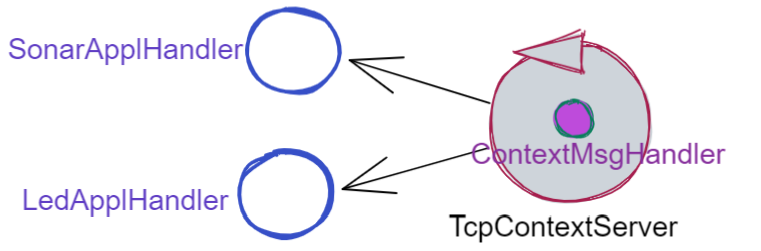
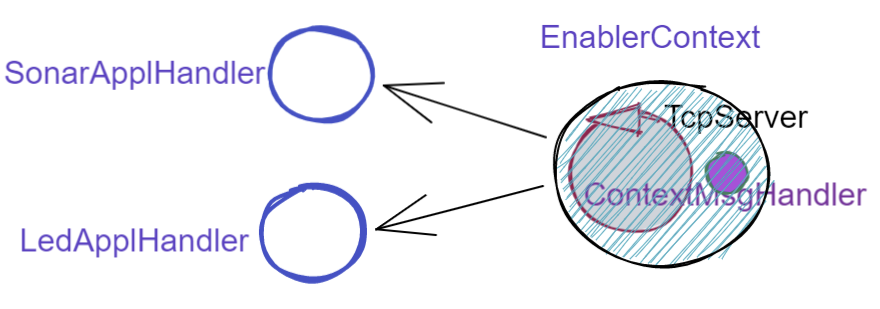
sprint4

Changed region(s): [[0.0, 0.0279, 0.9974, 0.9761]]

diff --git a/it.unibo.radarSystem22_4/src/it/unibo/radarSystem22_4/appl/counter/SharedCounterExampleMain.java b/it.unibo.radarSystem22_4/src/it/unibo/radarSystem22_4/appl/counter/SharedCounterExampleMain.java
@@ -3,8 +3,11 @@ package it.unibo.radarSystem22_4.appl.counter;
 import it.unibo.radarSystem22_4.appl.RadarSystemConfig;
 import it.unibo.radarSystem22_4.comm.ApplMessage;
 import it.unibo.radarSystem22_4.comm.ProtocolType;
+import it.unibo.radarSystem22_4.comm.context.ContextMsgHandler;
 import it.unibo.radarSystem22_4.comm.context.TcpContextServer;
+import it.unibo.radarSystem22_4.comm.enablers.EnablerContext;
 import it.unibo.radarSystem22_4.comm.interfaces.IApplMessage;
+import it.unibo.radarSystem22_4.comm.interfaces.IContext;
 import it.unibo.radarSystem22_4.comm.proxy.ProxyAsClient;
 import it.unibo.radarSystem22_4.comm.utils.BasicUtils;
 
@@ -18,24 +21,27 @@ import it.unibo.radarSystem22_4.comm.utils.BasicUtils;
 public class SharedCounterExampleMain  {
 private int ctxServerPort   = 7070;
 private String delay        = "100"; //con delay = 0 funziona
-
+private ProtocolType protocol;
 IApplMessage msgDec = new ApplMessage(
 	      "msg( dec, dispatch, main, counter, dec(DELAY), 1 )"
 	      .replace("DELAY", delay));
  
 	public void configure(  ) {
  		BasicUtils.aboutThreads("Before configure - ");
+ 		protocol = ProtocolType.tcp;
 		CounterWithDelay counter         = new CounterWithDelay("counter");
- 		TcpContextServer contextServer   = new TcpContextServer("TcpContextServer",  ctxServerPort );
-		CounterApplHandler counterH      = new CounterApplHandler("counterH", counter);
-		contextServer.addComponent(counter.getName(),counterH);	
+ 		CounterApplHandler counterH      = new CounterApplHandler("counterH", counter);
+// 		TcpContextServer contextServer   = new TcpContextServer("TcpContextServer",  ctxServerPort );
+		IContext  contextServer = new EnablerContext("ctx",""+ctxServerPort,protocol,
+	                 new ContextMsgHandler("ctxH"));		
+ 		contextServer.addComponent(counter.getName(),counterH);	
  		contextServer.activate();    
  		BasicUtils.aboutThreads("After configure - ");
  	}
 	
 	public void execute() throws Exception {
-		ProxyAsClient client1 = new ProxyAsClient("client1","localhost", ""+ctxServerPort, ProtocolType.tcp);
- 		ProxyAsClient client2 = new ProxyAsClient("client2","localhost", ""+ctxServerPort, ProtocolType.tcp);
+		ProxyAsClient client1 = new ProxyAsClient("client1","localhost", ""+ctxServerPort, protocol);
+ 		ProxyAsClient client2 = new ProxyAsClient("client2","localhost", ""+ctxServerPort, protocol);
  		client1.sendCommandOnConnection(msgDec.toString());  
  		client2.sendCommandOnConnection(msgDec.toString());		
  		BasicUtils.aboutThreads("After client send - ");
@@ -43,10 +49,7 @@ IApplMessage msgDec = new ApplMessage(
  
  
 	public static void main( String[] args) throws Exception {	
-		SharedCounterExampleMain sys = new SharedCounterExampleMain();
-//		RadarSystemConfig.withContext = true;
-		RadarSystemConfig.tracing     = false;
-		
+		SharedCounterExampleMain sys = new SharedCounterExampleMain();		
 		sys.configure();
 		sys.execute();
  		Thread.sleep(2500);

diff --git a/it.unibo.radarSystem22_4/src/it/unibo/radarSystem22_4/appl/main/RadarSystemMainDevsCtxOnRasp.java b/it.unibo.radarSystem22_4/src/it/unibo/radarSystem22_4/appl/main/RadarSystemMainDevsCtxOnRasp.java
@@ -8,7 +8,6 @@ import it.unibo.radarSystem22_4.appl.handler.LedApplHandler;
 import it.unibo.radarSystem22_4.appl.handler.SonarApplHandler;
 import it.unibo.radarSystem22_4.comm.ProtocolType;
 import it.unibo.radarSystem22_4.comm.context.ContextMsgHandler;
-import it.unibo.radarSystem22_4.comm.context.TcpContextServer;
 import it.unibo.radarSystem22_4.comm.enablers.EnablerContext;
 import it.unibo.radarSystem22_4.comm.interfaces.IApplMsgHandler;
 import it.unibo.radarSystem22_4.comm.interfaces.IApplication;
@@ -20,10 +19,7 @@ import it.unibo.radarSystem22.domain.DeviceFactory;
 public class RadarSystemMainDevsCtxOnRasp implements IApplication{
 	private ISonar sonar;
 	private ILed  led ;
- 
- 
- 	//private TcpContextServer contextServer;
- 	
+  	
  	private IContext contextServer;
 
 	
@@ -57,7 +53,7 @@ public class RadarSystemMainDevsCtxOnRasp implements IApplication{
 
 		    RadarSystemConfig.RadarGuiRemote   = true;		
  			RadarSystemConfig.ctxServerPort    = 8756;
- 			RadarSystemConfig.protcolType      = ProtocolType.udp;
+ 			RadarSystemConfig.protcolType      = ProtocolType.tcp;
 		}
  
 	}
@@ -65,8 +61,7 @@ public class RadarSystemMainDevsCtxOnRasp implements IApplication{
  	   led   = DeviceFactory.createLed(); 
 	   sonar = DeviceFactory.createSonar();
    
- 	   //contextServer  = new TcpContextServer("TcpCtxServer",RadarSystemConfig.ctxServerPort);
- 	   
+ 	   //contextServer  = new TcpContextServer("TcpCtxServer",RadarSystemConfig.ctxServerPort); 	   
 	   contextServer = new EnablerContext("ctx",""+RadarSystemConfig.ctxServerPort,
  			                  RadarSystemConfig.protcolType, new ContextMsgHandler("ctxH"));
 		//Registrazione dei componenti presso il contesto

diff --git a/it.unibo.radarSystem22_4/src/it/unibo/radarSystem22_4/appl/counter/CounterApplHandler.java b/it.unibo.radarSystem22_4/src/it/unibo/radarSystem22_4/appl/counter/CounterApplHandler.java
@@ -19,7 +19,20 @@ private CounterWithDelay counter;
 	
 	@Override
 	public void elaborate( IApplMessage msg, Interaction2021 conn ) {
-		if( counter != null ) elaborateForObject( msg );
+//		if( counter != null ) elaborateForObject( msg );
+		ColorsOut.outappl(name + " | elaborate msg="+msg, ColorsOut.GREEN);		
+		String answer=null;
+		try {
+			String cmd =  msg.msgContent();
+ 			int delay   = getDecDelayArg(cmd);
+ 			counter.dec(delay);	
+			answer = ""+counter.getVal();
+			//ColorsOut.outappl(name + " | elaborate ApplMessage answer: "+answer, ColorsOut.GREEN);
+			if( msg.isRequest() ) {
+				IApplMessage  reply = CommUtils.prepareReply(msg, answer);
+				sendAnswerToClient(reply.toString());			
+			}
+		}catch( Exception e) {}	
 	}
 	
 	protected int getDecDelayArg(String cmd) throws Exception{

diff --git a/it.unibo.radarSystem22_4/src/it/unibo/radarSystem22_4/appl/main/UseLedFromPc.java b/it.unibo.radarSystem22_4/src/it/unibo/radarSystem22_4/appl/main/UseLedFromPc.java
@@ -27,8 +27,9 @@ public class UseLedFromPc implements IApplication{
 	public void setup( String domainConfig, String systemConfig )  {
 		ColorsOut.outappl(" === " + getName() + " ===", ColorsOut.MAGENTA);
 		RadarSystemConfig.DLIMIT           = 80;
+		RadarSystemConfig.raspAddr         = "192.168.1.90";
 		RadarSystemConfig.ctxServerPort    = 8756;
-		CommSystemConfig.protcolType = ProtocolType.udp;
+		CommSystemConfig.protcolType = ProtocolType.tcp;
 	}
 	
 	protected void configure() {		

diff --git a/it.unibo.issLabStart/userDocs/iss22Working/source/ContestiContenitori.rst b/it.unibo.issLabStart/userDocs/iss22Working/source/ContestiContenitori.rst
@@ -367,9 +367,9 @@ livello applicativo che sono ora di tipo :ref:`ApplMessage<ApplMessage>`.
     public void elaborate( IApplMessage message, Interaction2021 conn ); 
   }
 
-:remark:`messaggi standard di sistema`
+:remark:`messaggi standard di sistema come IApplMessage`
 
-- D'ora in poi il metodo ``elaborate`` con argomento ``IApplMessage<IApplMessage>`` diventerà il metodo di riferimento
+- D'ora in poi il metodo ``elaborate`` con argomento :ref:`IApplMessage<IApplMessage>` diventerà il metodo di riferimento
   per la gestione dei messaggi. In altre parole, tutte le nostre applicazioni distribuite 
   invieranno messaggi della forma:
 
@@ -396,7 +396,7 @@ Modifica della classe :ref:`ApplMsgHandler<ApplMsgHandler>`
 Di conseguenza, introduciamo nella classe astratta :ref:`ApplMsgHandler<ApplMsgHandler>`  
 la specifica del metodo
 
-  ``abstract  elaborate( ApplMessage message, Interaction2021 conn )`` 
+  ``abstract  elaborate( IApplMessage message, Interaction2021 conn )`` 
 
 che dovrà essere definito dalle classi specializzate.
 
@@ -406,7 +406,7 @@ che dovrà essere definito dalle classi specializzate.
 Metodo ``prepareReply``
 &&&&&&&&&&&&&&&&&&&&&&&&&&&&&&&&&&&
 
-Per associare le risposte alle richieste, viene introdotto il  metodo ``prepareReply`` che
+Per associare le risposte alle richieste, viene introdotto (nella classe ``CommUtils``) il  metodo ``prepareReply`` che
 generare un messaggio strutturato ``msg/6`` tale che:
 
 - l'identificativo del messaggio di risposta sia l'identificativo del messaggio di richiesta;
@@ -414,14 +414,15 @@ generare un messaggio strutturato ``msg/6`` tale che:
  
 .. code:: java
 
-    protected ApplMessage prepareReply(ApplMessage message, String answer) {
+    protected ApplMessage prepareReply(IApplMessage message, String answer) {
     String payload = message.msgContent();
     String sender  = message.msgSender();
     String receiver= message.msgReceiver();
     String reqId   = message.msgId();
     ApplMessage reply = null;
       if( message.isRequest() ) {
-         reply = CommUtils.buildReply(receiver,reqId,answer,message.msgSender());
+         reply = CommUtils.buildReply(
+            receiver,reqId,answer,message.msgSender());
       }else { //DEFENSIVE
         ColorsOut.outerr(name + " | ApplMsgHandler prepareReply ERROR...");
       }
@@ -811,7 +812,7 @@ Architettura con contesto
 
 Avvalendoci dei componenti introdotti in precedenza, costruiamo un sistema che abbia  i dispositivi sul Raspberry 
 e la business logic su PC. Ad esempio, la figura che segue illuistra l'architettura di un sistema che 
-
+pone sul PC un gestore del Led remoto (si veda la classe ``UseLedFromPc.java``).
 
 .. image:: ./_static/img/Radar/LedUsageWithCtx.PNG
    :align: center 
